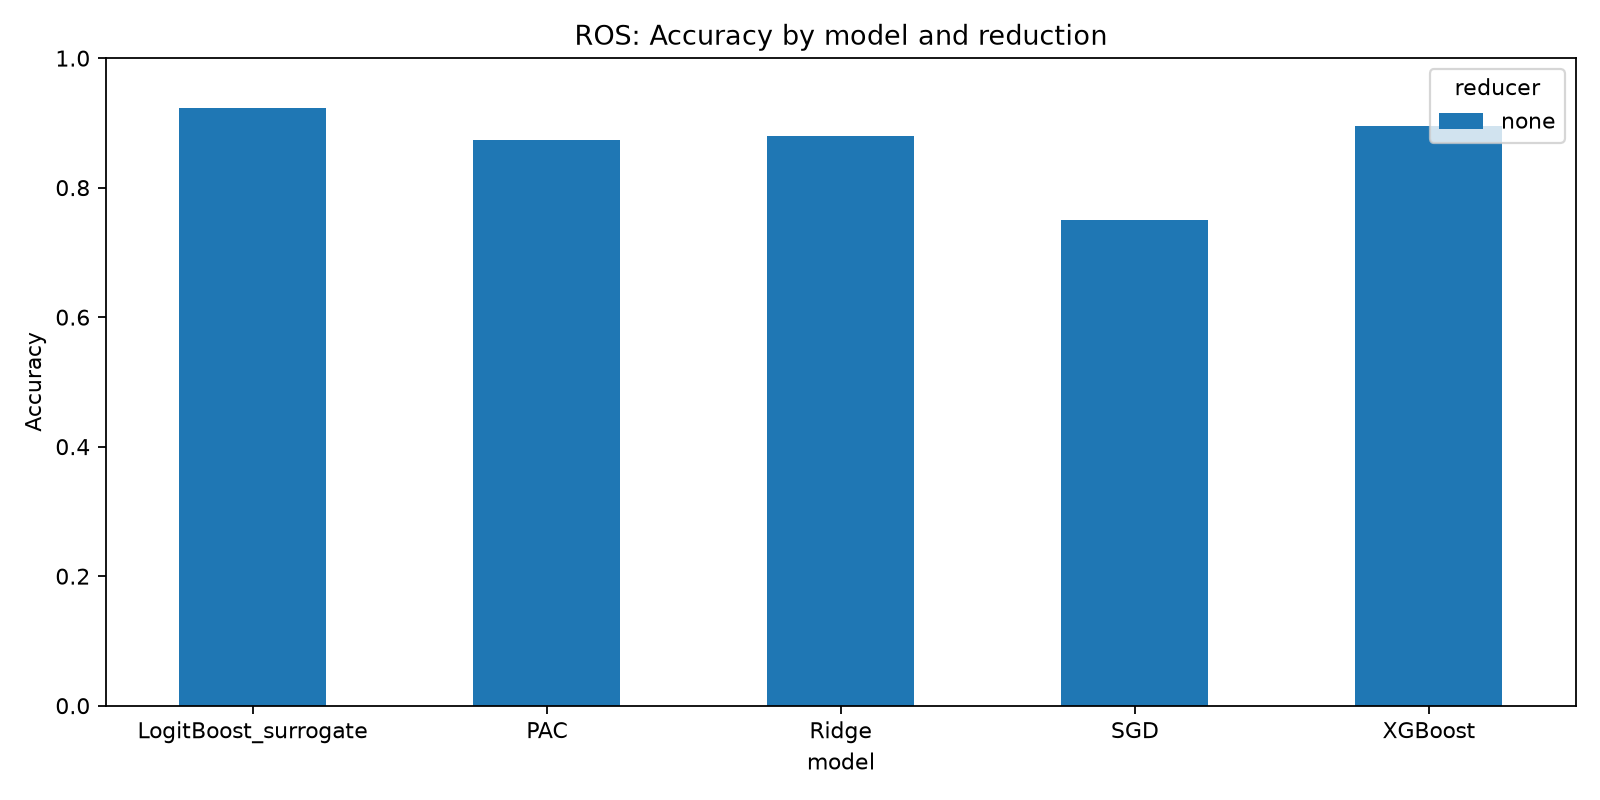
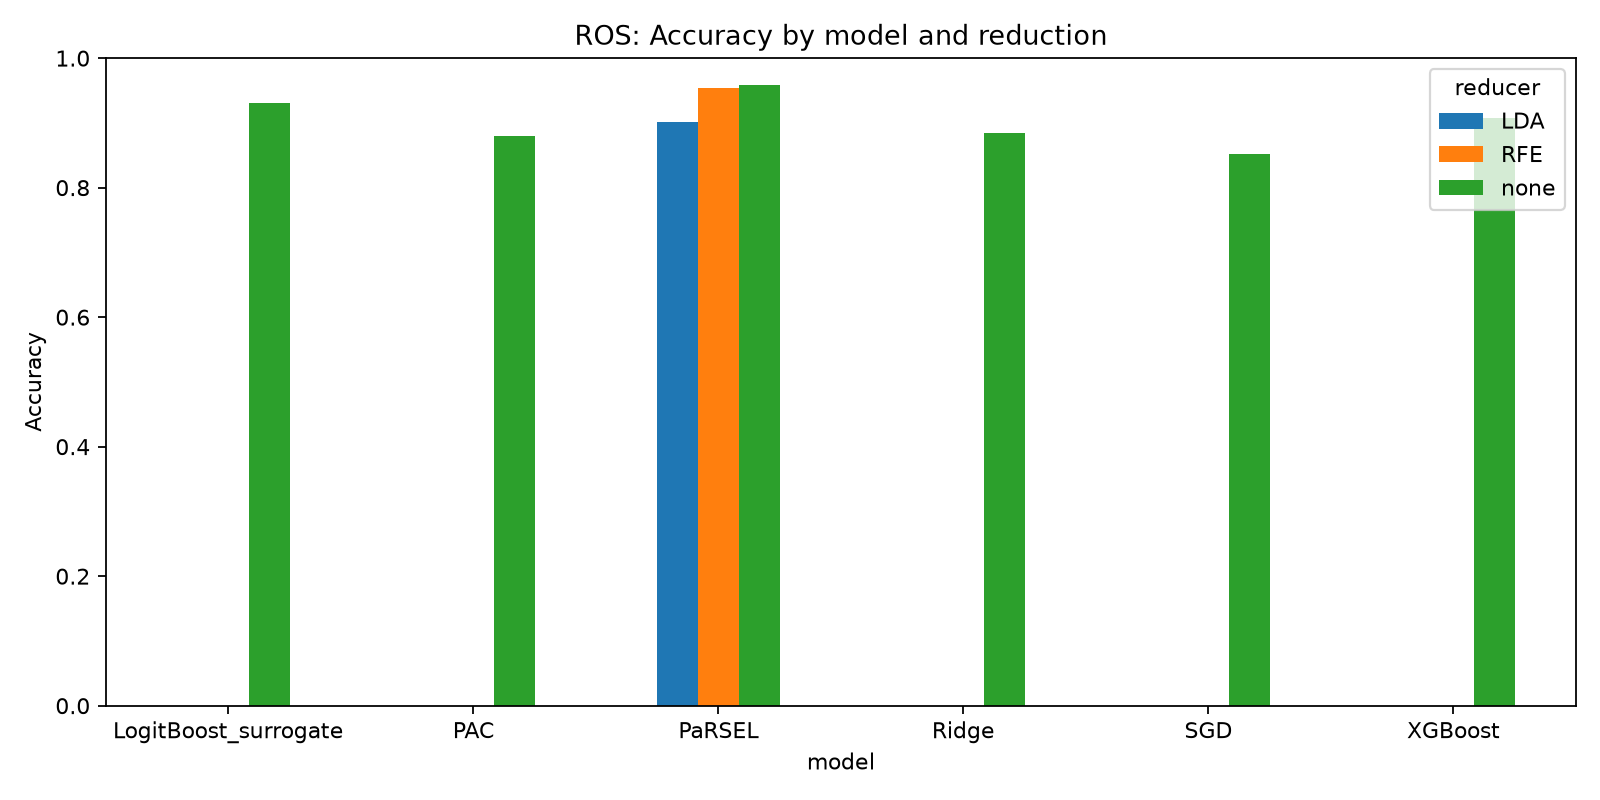
Save LDA diagnostics and checkpoint results

diff --git a/docs/decisions.md b/docs/decisions.md
@@ -46,3 +46,27 @@ Updated: 2026-09-30
 - First successful Phase 1 primary run (paper-faithful, ROS, no reducer, untuned PaRSEL): accuracy 0.9544, precision 0.7472, recall 0.7006, F1 0.7231, specificity 0.97798, balanced accuracy 0.8393, ROC-AUC 0.9607, PR-AUC 0.6470. This does not reproduce the paper's approximate 97% accuracy / 80% F1 or 98% ROC-AUC claims; do not tune against the test set to close the gap.
 - Direct ROS verification on paper-faithful training labels: pre-ROS counts {0: 73,199, 1: 6,800}; post-ROS counts {0: 73,199, 1: 73,199}; 146,398 rows. This is nine examples per class below the paper's 73,208 due to the group-safe split allocation.
 - Train-only randomized-search Phase 1 variant completed after three candidate draws (3-fold CV; same untouched test): learning_rate=0.1, max_depth=7, n_estimators=152; accuracy 0.9636, precision 0.8495, recall 0.6941, F1 0.7640, ROC-AUC 0.9713, PR-AUC 0.8458. Its ROS/no-reducer configuration differs from the paper's ProWRAS+LDA Table 4 tuned narrative, so this comparison is not configuration-matched. Keep the untuned model as the primary baseline.
+
+## LDA Diagnostic Hypothesis (before run)
+
+Hypothesis: binary LDA is producing the expected one-dimensional, finite projection; the observed ROS+LDA loss is due to information compression and/or the fitted class prior, not a malformed input shape.
+Discriminator: inspect train/test shape and NaNs, then compare the five standalone learners using LDA fitted on imbalanced training data versus LDA fitted on ROS-balanced training data, with the same untouched test rows.
+
+LDA diagnostic outcome: scaled, train-fitted preprocessing produced 79,999 x 8 training and 20,001 x 8 test inputs; both contained no NaNs. Binary LDA produced exactly 79,999 x 1 and 20,001 x 1 finite arrays. Standalone mean F1 across PAC/Ridge/SGD/XGBoost/LogitBoost surrogate was 0.530 with LDA fitted on imbalanced train and 0.564 when LDA was fitted on ROS-balanced train; mean ROC-AUC was 0.949 and 0.955 respectively. Individual LDA standalone F1 ranged 0.413-0.579 (imbalanced prior) and 0.545-0.577 (balanced prior), versus no-reduction standalone F1 0.505-0.678. Shape/scaling/NaN handling is correct. The LDA collapse is consistent with genuine one-component information compression, with class prior contributing; the larger PaRSEL drop to F1 0.492 may additionally reflect stack score/meta-threshold behavior and needs E2 calibration/threshold analysis.
+
+## RFE Runtime Decision (before rerun)
+
+Hypothesis: one training-only CV selection of RFE feature count, followed by fold-local Random Forest RFE using that fixed count, will finish within the run budget without changing test evaluation.
+Discriminator: rerun ROS+RFE once with the selected count and selected feature names saved in reducer_metadata; compare only on the fixed untouched test and label this count-selection compromise.
+
+- Compromise: select `n_features` once by 3-fold average-precision CV on the training split, then reuse that fixed count inside OOF folds and the final train fit. Random Forest RFE remains fit only on each relevant training partition, with at most 100 trees. This is faster than independently selecting feature count inside every OOF fold, but the count selection sees the full training labels; the untouched test remains isolated.
+
+## PaRSEL+ E1 Hypothesis (before run)
+
+Hypothesis: repeated five-fold CV over five fixed seeds will show that the primary PaRSEL baseline's apparent high accuracy coexists with materially weaker minority-class precision/PR-AUC than ranking metrics alone suggest.
+Discriminator: report mean, standard deviation, and 95% intervals across the five-seed CV for fixed standalone alternatives, and compare paired test-set predictions/scores to the saved PaRSEL baseline with McNemar and DeLong tests.
+
+## PaRSEL+ E2 Hypothesis (before run)
+
+Hypothesis: selecting a threshold on a training-only validation fold can raise PaRSEL recall to at least 0.90, while lowering precision relative to its default-threshold held-out result.
+Discriminator: choose max-F1 and recall-constrained thresholds on the same validation predictions, then evaluate each exactly once on the untouched test set and record the precision/recall trade-off.
